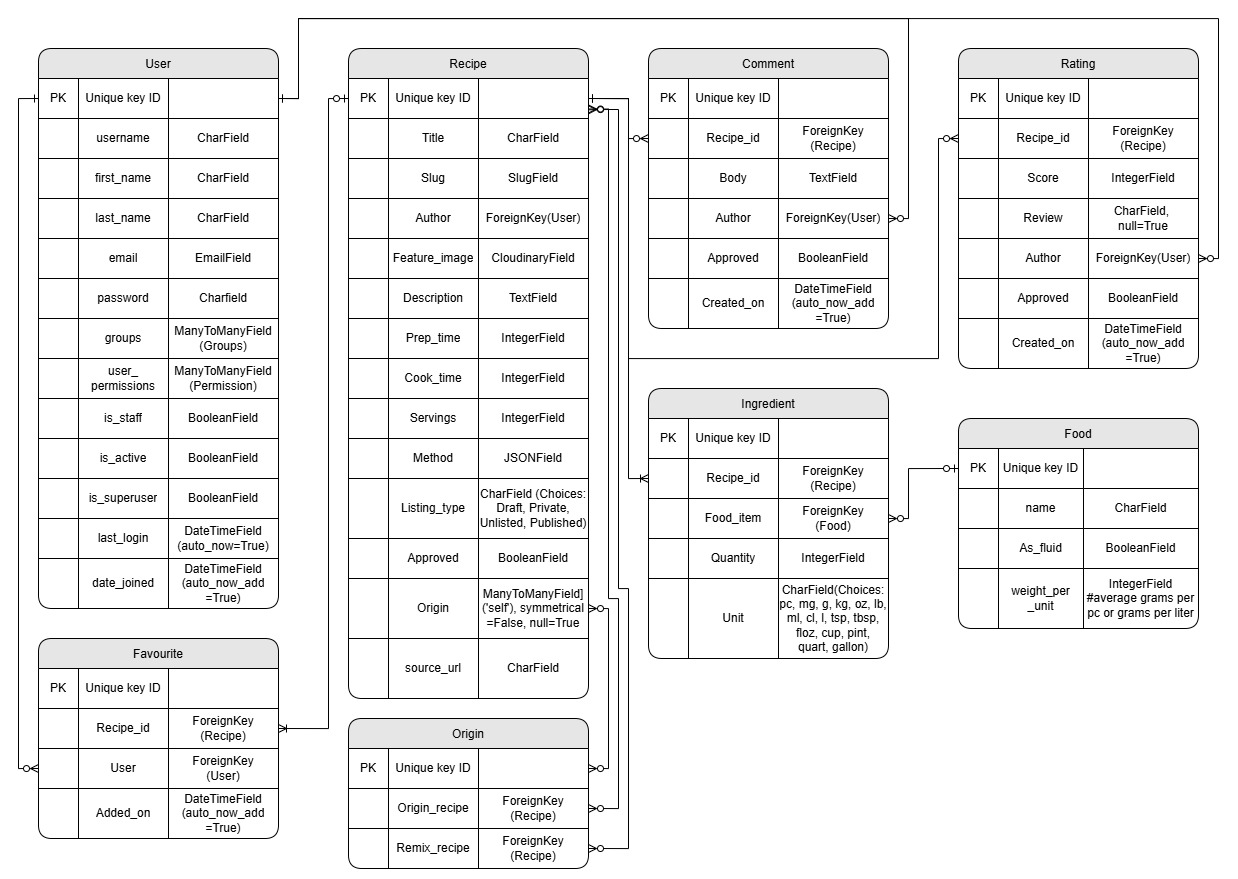
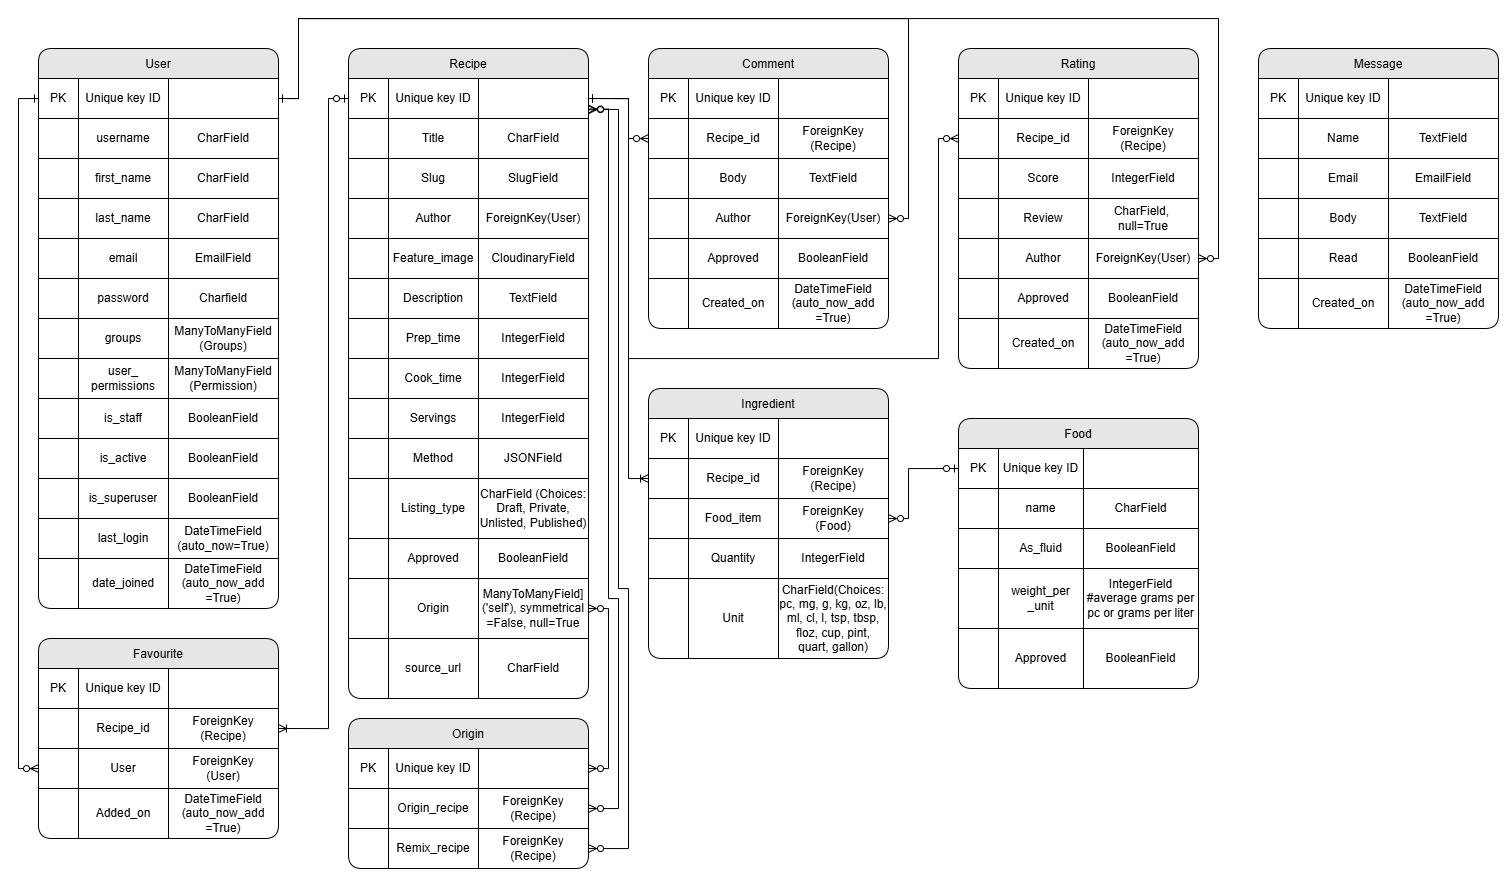
Add to UX section and update ERD

diff --git a/README.md b/README.md
@@ -37,7 +37,31 @@ The home page whilst a user is logged in, will display the library of public rec
 ## UX - User Experience
 
 ### User stories
-#### 
+#### New Visitor
+- Upon reaching the website I want to understand what the site does
+- I want to see some content before registering
+- I want to easily navigate the site to register or find social media links
+- I want to easily sign up and start using the site
+
+#### Registered User
+- I want to login and logout easily
+- I want to be able to delete my account
+- I want to be able to reset my password should I forget it
+- I want to be able to create/edit/delete my recipes
+- I want to be able to create/edit/delete my comments on recipes
+- I want to be able to create/edit/delete my rating on recipes
+- I want to be able to add and remove a recipes from my favourites
+- I want to be able to review comments and ratings from other user on my recipes
+- I want to be able to easily copy an existing recipe to make my own tweaks to it
+- I want to be able to submit new food items for approval should they not exist in the database
+
+#### All Users
+- I want to be able to easily navigate the site regardless of display size
+- I want to get feedback on actions taken on the website
+- I want to be able to contact the site admin
+- I want to see recipe details when I click on it
+- I want to be advised if a page I navigated to no longer exists and easily return to the site
+
 
 <!-- ### Flowchart
 To plan and illustrate how the game will run, I have generated this flowchart.
